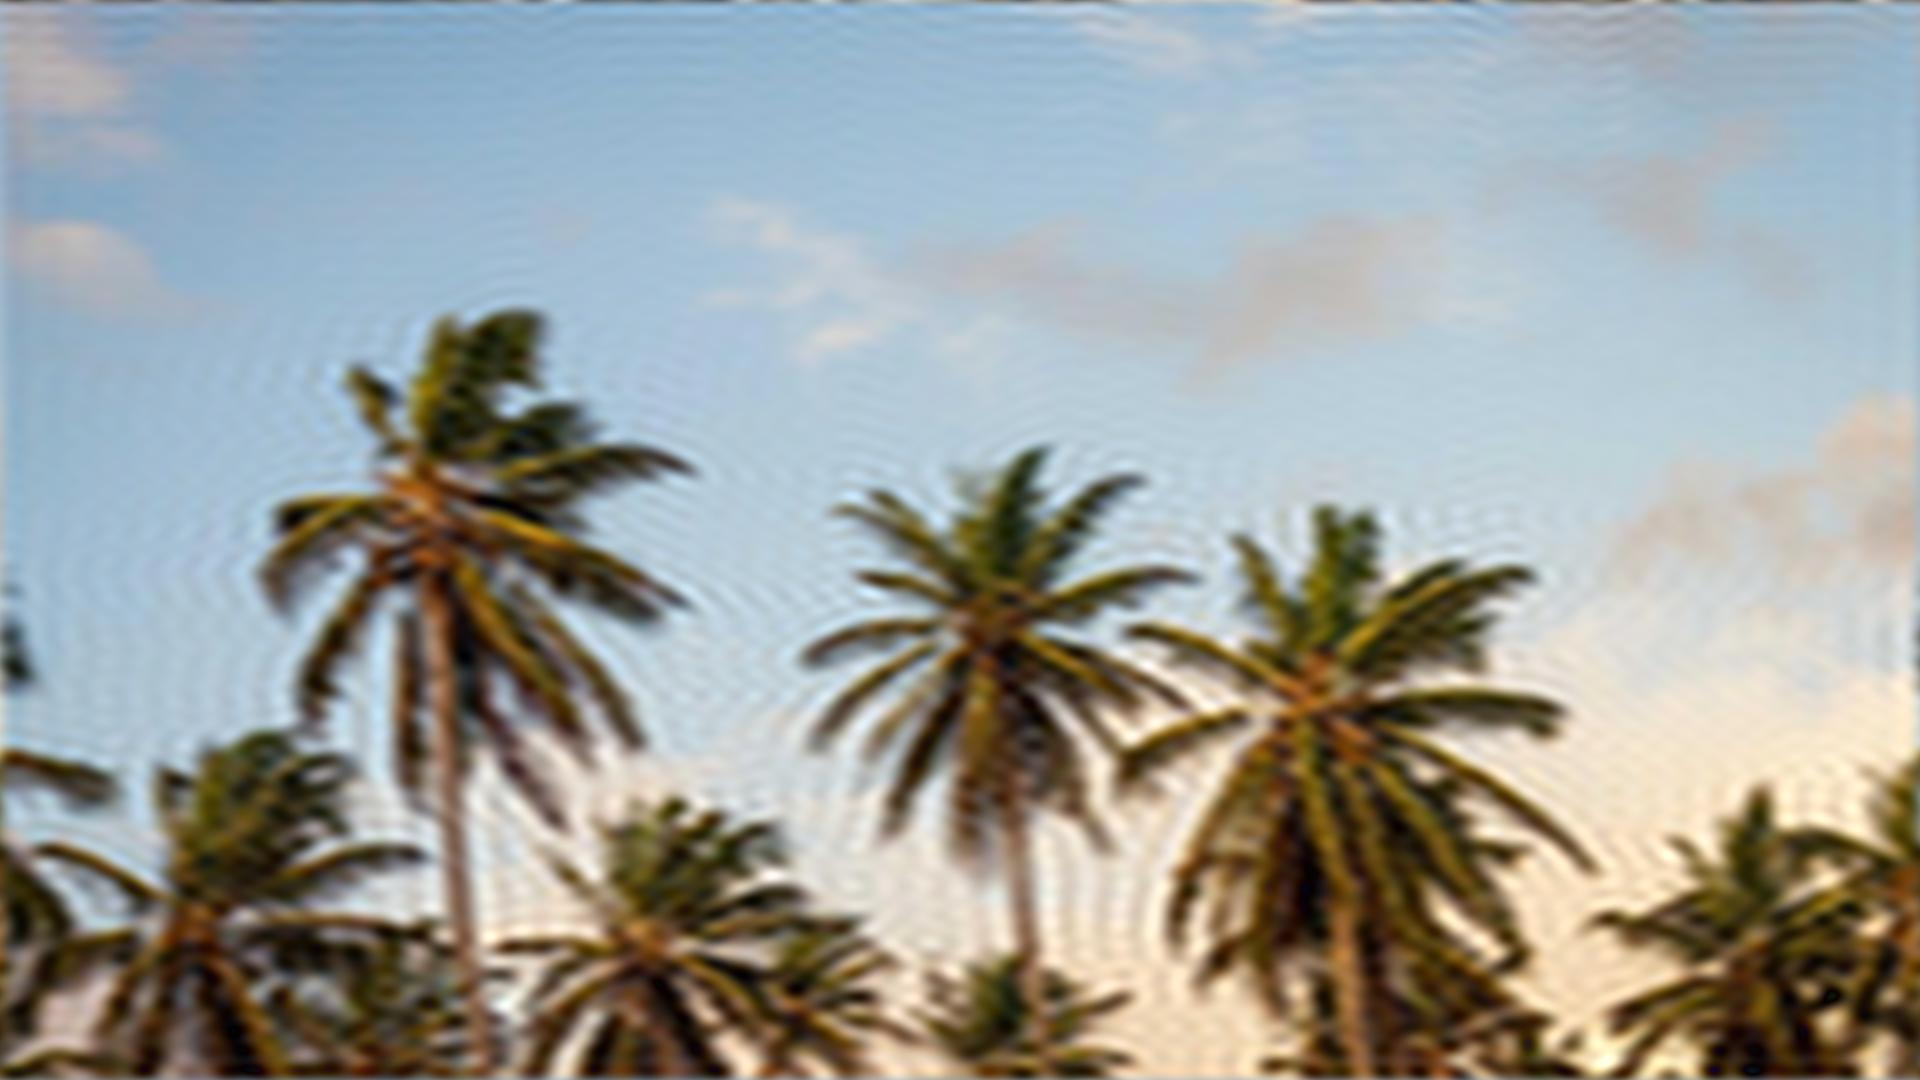
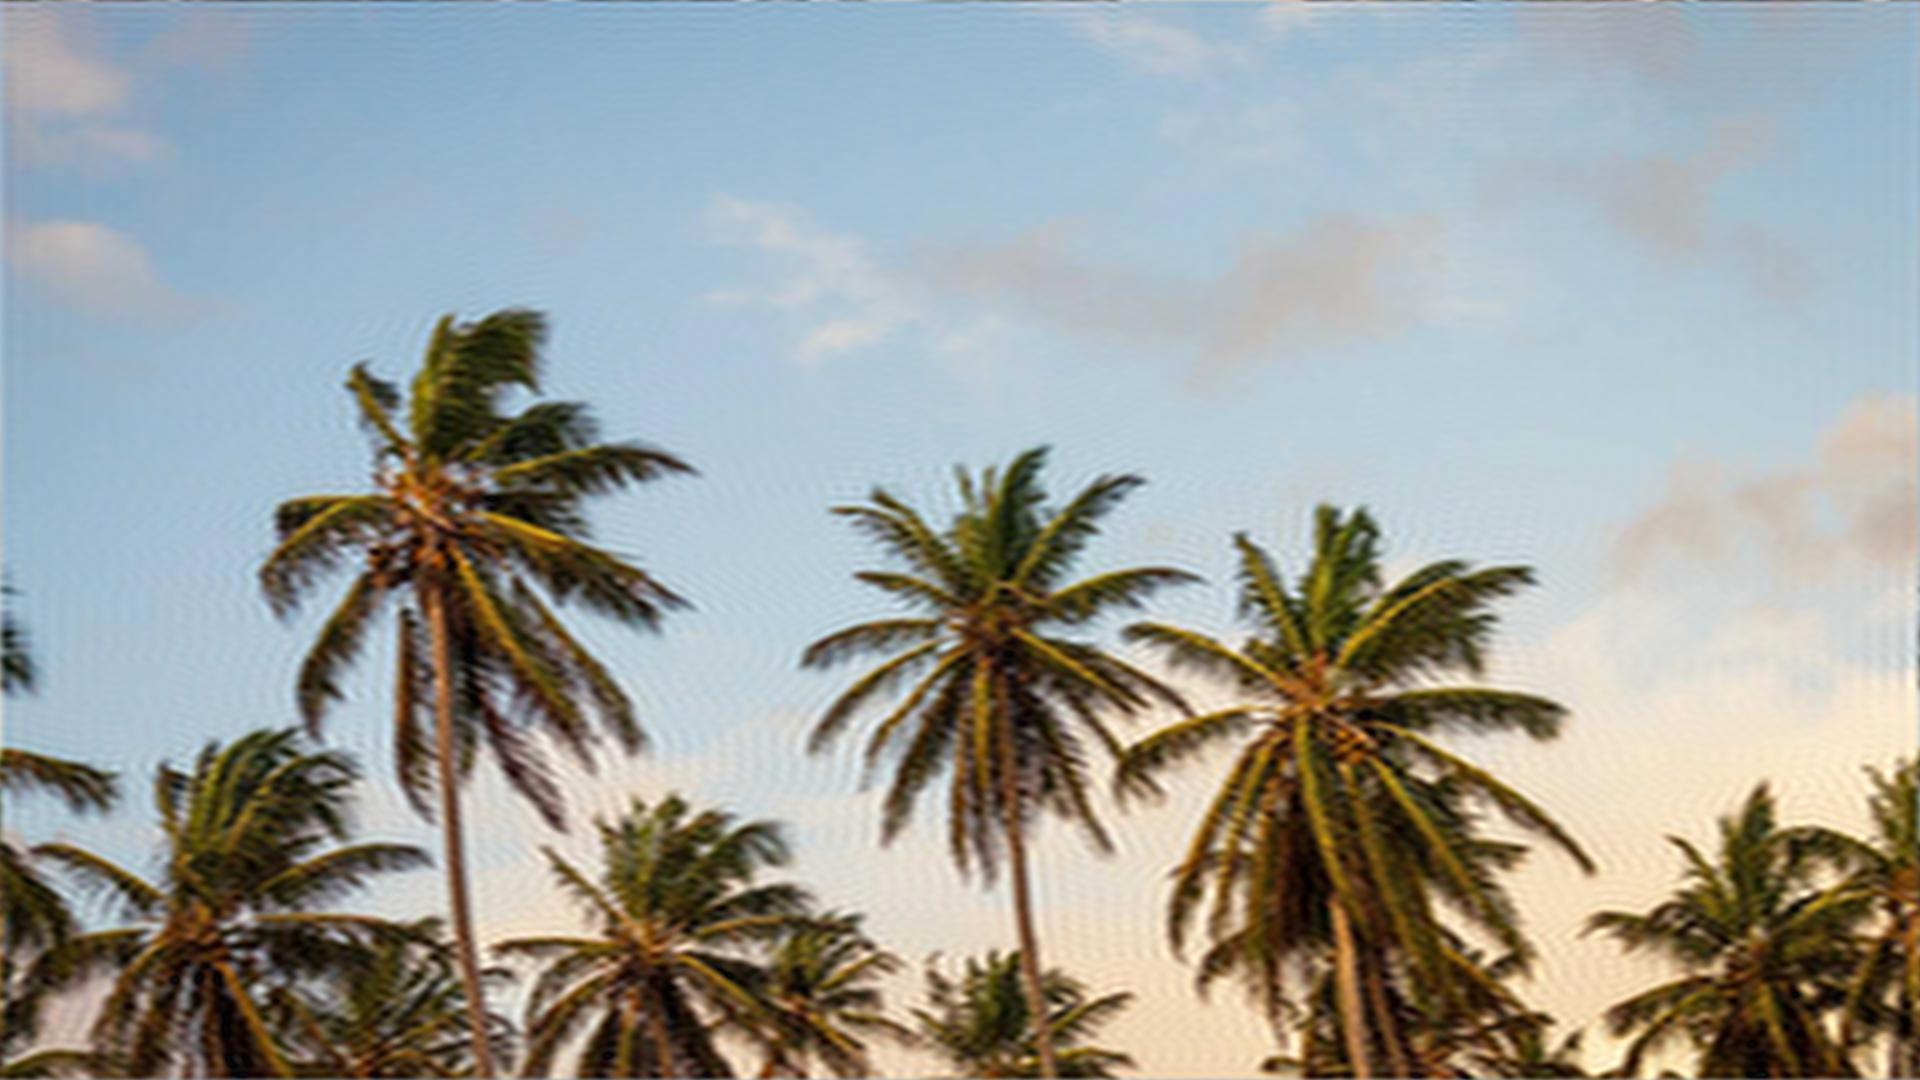
new

diff --git a/img_compV1.py b/img_compV1.py
@@ -85,7 +85,7 @@ if __name__ == "__main__":
     
     output_fileSerial = [os.path.join(output_dir, f'compressed_serial{i+1}.jpg')  for i in range(len(image_files))]
     output_filePararell = [os.path.join(output_dir, f'compressed_parallel{i+1}.jpg') for i in range(len(image_files))]
-    compression_ratio = 0.05  # Keep 10% of the frequencies
+    compression_ratio = 0.1  # Keep 10% of the frequencies
 
     # Serial processing
     print("Starting serial processing...")
